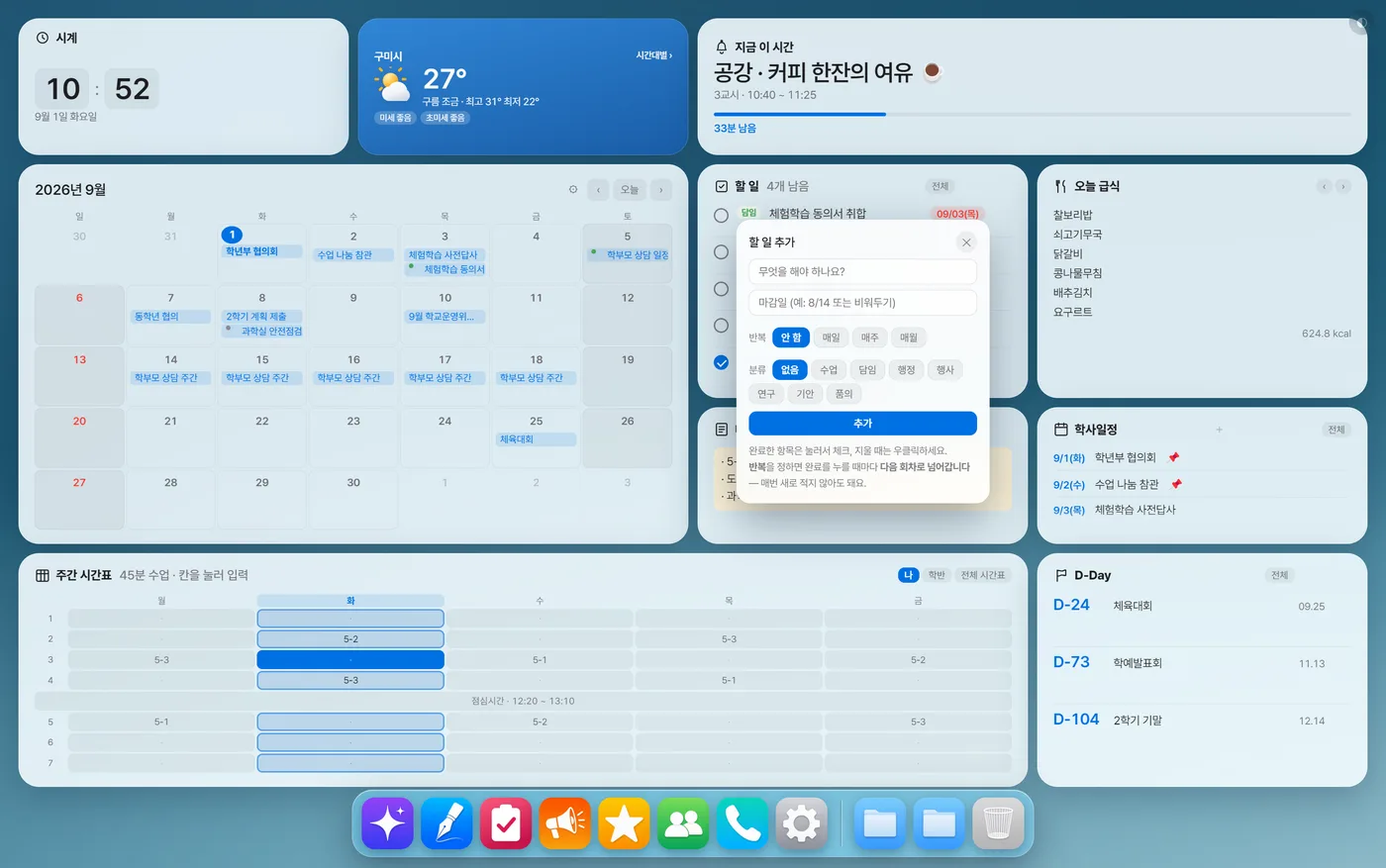
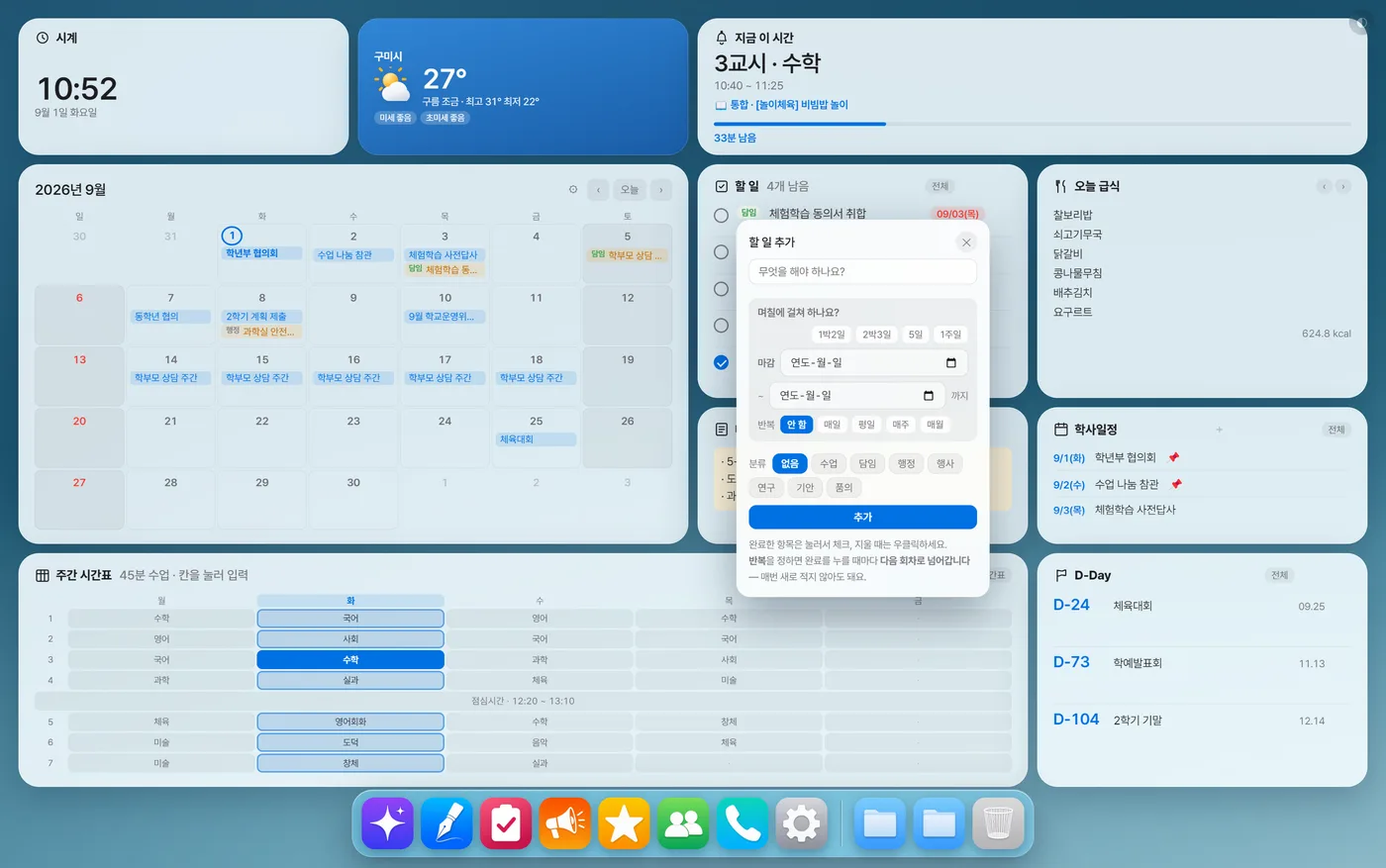
TD2 설명서 3.38 — 기간·반복 한 벌(이 기능 있나요·달력·할 일·[전체]·FAQ) · 동기화 화면비 안내 · 일지 v3.38 · 캡처 날짜 창·할 일 추가 창 (릴리스 때 push)

diff --git a/td2/index.html b/td2/index.html
@@ -576,7 +576,7 @@
               <div class="fx" data-k="색 글자색 크기 굵기 꾸미기 강조 팔레트"><span class="fn">줄마다 색·크기·굵기 🎨 <span class="ftag hid">숨은 자리</span></span><span class="fw">줄 <b>끝에 마우스를 올리면</b> 나오는 🎨 — 급한 일만 빨갛게·크게 할 수 있어요</span></div>
               <div class="fx" data-k="분류 꼬리표 카테고리 업무 수업 담임 행정"><span class="fn">할 일에 분류 붙이기</span><span class="fw">추가 창의 <b>[분류]</b> 줄에서 고릅니다. 이미 적어 둔 것은 <b>[전체] 창 → 줄 끝 ✎</b>. 이름·색은 설정 [위젯]에서 바꿉니다</span></div>
               <div class="fx" data-k="분류별로 보기 거르기 필터"><span class="fn">분류별로 걸러 보기</span><span class="fw">할 일 제목 옆 <b>[전체]</b> → 위에 줄지어 뜨는 분류 칩을 누르면 그것만 보입니다</span></div>
-              <div class="fx" data-k="반복 매일 매주 매월 정기 루틴"><span class="fn">반복되는 할 일</span><span class="fw">추가 창의 <b>[반복]</b> — 매일·매주·매월. 완료를 누르면 지워지지 않고 <b>다음 회차로 넘어갑니다</b></span></div>
+              <div class="fx" data-k="반복 매일 평일 매주 매월 정기 루틴 반복 끝"><span class="fn">반복되는 할 일</span><span class="fw">추가 창의 <b>[반복]</b> — 매일·평일·매주·매월, 끝나는 날(반복 끝)도 정할 수 있어요. 완료를 누르면 지워지지 않고 <b>다음 회차로 넘어갑니다</b>(카드·달력·[전체] 어디서 눌러도)</span></div>
               <div class="fx" data-k="마감 요일 표시 날짜"><span class="fn">마감일에 요일 붙이기</span><span class="fw">「08/11(월)」처럼 보여 줍니다 — 설정 [위젯] → 할 일 마감일에 요일 표시(기본 켜짐)</span></div>
               <div class="fx" data-k="완료 감추기 체크한 것 숨기기"><span class="fn">끝낸 할 일 감추기</span><span class="fw">할 일 <b>[전체]</b> 창 아래 <b>[완료한 것 감추기]</b> — 지우지 않고 시야에서만 치웁니다</span></div>
               <div class="fx" data-k="메모 카드 넷 4개 여러개 포스트잇 쪽지"><span class="fn">메모 카드를 넷까지 <span class="ftag off">기본 꺼짐</span></span><span class="fw">설정 [위젯] → 메모 2·3·4를 켜고, 뜨는 알림의 <b>[직접 배치로 두기]</b>까지 누르세요(배치표에 자리가 없는 카드). 학년용·업무용·개인용으로 갈라 쓰시라고 만든 것입니다</span></div>
@@ -585,7 +585,7 @@
               <div class="fx" data-k="쪽지 잘림 세줄 다 안 보임 접힘 전체보기"><span class="fn">쪽지 글이 잘려 보일 때 <span class="ftag off">기본 꺼짐</span></span><span class="fw">설정 [위젯] → 메모 아래 <b>「쪽지 글 다 보이기」</b>를 켜세요(기본은 여덟 줄쯤에서 접습니다)</span></div>
               <div class="fx" data-k="지운 할 일 되살리기 지난 기록 복구 예전 할 일"><span class="fn">지운 할 일 되살리기 — 지난 기록 <span class="ftag hid">숨은 자리</span></span><span class="fw">할 일 <b>[전체]</b> 창 맨 아래 「지난 기록 N건 펼치기」 → 줄의 <b>↩</b>. 최근 500건까지 남습니다</span></div>
               <div class="fx" data-k="디데이 고치기 수정 날짜 바꾸기"><span class="fn">D-Day 고치기</span><span class="fw">D-Day는 고치기가 없습니다 — 우클릭으로 지우고 다시 넣으세요. 지난 날은 D+로 남으니 다 쓴 것은 지우기</span></div>
-              <div class="fx" data-k="반복 할 일 바꾸기 끄기 멈추기"><span class="fn">반복 할 일 멈추기</span><span class="fw">한 번 정한 반복은 바꿀 수 없어 <b>지우고 다시 적어야</b> 합니다</span></div>
+              <div class="fx" data-k="반복 할 일 바꾸기 끄기 멈추기 기간 고치기"><span class="fn">반복·기간 바꾸기, 반복 멈추기</span><span class="fw">할 일 <b>[전체]</b> 창이나 달력 날짜 창의 줄 끝 <b>✎</b> → 「할 일 고치기」에서 반복 <b>[안 함]</b>, 또는 <b>반복 끝</b> 날짜를 정하세요</span></div>
               <div class="fx" data-k="전체 크게 보기 큰 창 펼치기"><span class="fn">카드를 큰 창에 펼치기</span><span class="fw">카드 제목 옆 <b>[전체]</b> — 할 일·D-Day·메모·학사일정·진도 모두 있습니다. 큰 창에서 고친 것은 바탕화면에도 바로 반영됩니다</span></div>
             </div>
 
@@ -594,7 +594,8 @@
               <div class="fx" data-k="주말 빼기 토일 안 보이게 월금만"><span class="fn">달력에서 토·일 빼기</span><span class="fw">달력 ⚙ → <b>「보여줄 요일」 [월~금]</b></span></div>
               <div class="fx" data-k="달력 글자 크게 작게 크기"><span class="fn">달력 글자 크기</span><span class="fw">달력 ⚙(또는 설정 [디자인]) → 보통·크게·아주 크게</span></div>
               <div class="fx" data-k="칸에 일정 다 보기 점만 나옴 더보기 +N 풍선 넘칠 때 글자 줄여 다 넣기"><span class="fn">달력 칸의 일정 다 보기 <span class="ftag hid">숨은 자리</span></span><span class="fw">「+N」으로 접힌 칸에 마우스를 올리면 그 날 일정이 <b>풍선으로 전부</b> 뜹니다. 접지 않고 글자를 줄여 한 칸에 넣으려면 달력 ⚙ → <b>「일정이 칸에 넘칠 때」 [글자 줄여 다 넣기]</b>. 날짜를 누르면 전부 보이는 창이 열립니다</span></div>
-              <div class="fx" data-k="여러 날 기간 일정 1박2일 이어지는"><span class="fn">여러 날 이어지는 일정 <span class="ftag hid">숨은 자리</span></span><span class="fw">날짜를 눌러 나온 창의 <b>입력칸 아래</b> — [1박2일]·[2박3일]·[5일]·[1주일] 단추 또는 마지막 날 고르기</span></div>
+              <div class="fx" data-k="여러 날 기간 일정 할 일 1박2일 이어지는"><span class="fn">여러 날 이어지는 일정·할 일 <span class="ftag hid">숨은 자리</span></span><span class="fw">날짜를 눌러 나온 창의 <b>입력칸 아래</b>(할 일은 추가 창에도 같은 칸) — [1박2일]·[2박3일]·[5일]·[1주일] 단추 또는 마지막 날 고르기. 기간 할 일은 그 사이 날마다 달력에 뜹니다</span></div>
+              <div class="fx" data-k="반복 일정 매주 회의 정기 일정 매월 이 날만 빼기"><span class="fn">반복 일정 (매주 회의 같은 것)</span><span class="fw">날짜 창 [일정] 탭 아래 칸의 <b>[반복]</b> — 매일·평일·매주·매월. 회차마다 달력에 뜨고, 한 회차를 ✕하면 <b>「이 날만 빼기 / 반복 전부 지우기」</b>를 묻습니다</span></div>
               <div class="fx" data-k="알림 시각 몇 분 전 울림 리마인더 알림이 안 울려요 안 옴 집중 지원 방해 금지"><span class="fn">일정에 알림 걸기 <span class="ftag off">기본 안 함</span></span><span class="fw">날짜 창의 <b>⏰</b> — 시각을 넣고 정각·5·10·30분 전 중에 고르면 윈도우 알림이 옵니다. <b>기본은 「안 함」</b>이라 고른 일정만 울립니다. 안 울리면 — <b>앱이 켜져 있어야</b> 울리고(꺼져 있던 사이의 알림은 버림), 윈도우 「집중 지원」이 켜져 있으면 안 뜹니다. 학사일정·구글 일정·할 일에는 알림이 없습니다</span></div>
               <div class="fx" data-k="중요 강조 빨간 표시"><span class="fn">중요 일정 강조</span><span class="fw">날짜 창의 <b>[중요]</b> 단추 — 달력에 빨갛게 뜹니다</span></div>
               <div class="fx" data-k="초과근무 시간외 근무 합계 4h"><span class="fn">초과근무 쌓기</span><span class="fw">날짜를 눌러 <b>[초과]</b> 탭 — [30분][1h][2h][4h][지움] 단추(누르면 바로 저장)나 시간·분 직접 입력(1분 단위, 사유는 [저장]으로). 그 달 합계가 저절로 쌓입니다</span></div>
@@ -723,7 +724,7 @@
               <div class="fx" data-k="업무포털 로그인 안 됨 안돼요 실패 기록 로그 원인 경남 충북 대구 광주"><span class="fn">업무포털이 안 될 때 기록 보내기 <span class="ftag hid">v3.32~</span></span><span class="fw">설정 [업무포털] → <b>[기록 열기]</b> — 어느 단계에서 멈췄는지가 적혀 있습니다. 그 파일을 [의견]으로 보내 주시면 원인을 짚을 수 있어요(인증서 아이디·비밀번호·학교 이름은 안 적힙니다)</span></div>
               <div class="fx" data-k="메신저 자동 로그인 지비톡 gbee talk 경북 인증서 업무용 메신저"><span class="fn">업무 메신저 자동 로그인 — 경북 GBee TALK 전용 <span class="ftag off">기본 꺼짐</span> <span class="ftag hid">v3.35~</span></span><span class="fw">설정 [업무포털] 맨 아래 — 컴퓨터를 켜면 GBee TALK의 <b>[인증서 로그인] → 인증서 비밀번호 → [확인]</b>까지 대신 누릅니다. <b>경상북도교육청 메신저 전용</b>입니다(다른 교육청 메신저는 메신저 안의 자동 로그인을 쓰세요)</span></div>
               <div class="fx" data-k="업무포털 버튼 바탕화면 누를 때만"><span class="fn">업무포털을 누를 때만 <span class="ftag off">기본 꺼짐</span></span><span class="fw">설정 [위젯] → <b>업무포털 로그인</b>을 켜면 바탕화면에 단추 카드가 붙습니다. 자동 실행을 꺼 두어도 이 단추는 됩니다</span></div>
-              <div class="fx" data-k="동기화 PC 간 동기화 학교 집 노트북 두 대 같이 쓰기 구글 로그인 드라이브 맞추기 연동"><span class="fn">학교 PC·집 PC 같이 쓰기(PC 간 동기화) <span class="ftag off">기본 꺼짐</span></span><span class="fw">설정 [데이터] 맨 위 <b>[구글로 로그인]</b> — 같은 구글 계정으로 로그인한 PC끼리 할 일·일정·명렬·설정·위젯 배치가 저절로 동기화됩니다(고치고 2초쯤 뒤 올리고, 다른 PC는 켤 때·5분마다·창을 누를 때 받음). 급하면 <b>[지금 동기화]</b>. 업무포털·메신저 비밀번호·독 바로가기·서랍은 PC마다 따로</span></div>
+              <div class="fx" data-k="동기화 PC 간 동기화 학교 집 노트북 두 대 같이 쓰기 구글 로그인 드라이브 맞추기 연동"><span class="fn">학교 PC·집 PC 같이 쓰기(PC 간 동기화) <span class="ftag off">기본 꺼짐</span></span><span class="fw">설정 [데이터] 맨 위 <b>[구글로 로그인]</b> — 같은 구글 계정으로 로그인한 PC끼리 할 일·일정·명렬·설정·위젯 배치가 저절로 동기화됩니다(고치고 2초쯤 뒤 올리고, 다른 PC는 켤 때·5분마다·창을 누를 때 받음). 급하면 <b>[지금 동기화]</b>. 업무포털·메신저 비밀번호·독 바로가기·서랍은 PC마다 따로. <b>PC마다 화면 크기·비율이 다르면 위젯 배치가 조금 달라질 수 있어요</b></span></div>
               <div class="fx" data-k="백업 내보내기 다른 컴퓨터 옮기기 이사"><span class="fn">다른 컴퓨터로 옮기기</span><span class="fw">설정 [데이터] → <b>[설정 내보내기] / [설정 불러오기]</b>. 다만 <b>Gemini 키·NEIS 키·캘린더 주소·인증서 비밀번호는 빠집니다</b>(백업은 열면 그대로 보이는 글자 파일이라서요) — 새 컴퓨터에서 그것만 다시 넣으세요</span></div>
               <div class="fx" data-k="지난 일정 지우기 완료 정리 청소"><span class="fn">묵은 것 정리하기</span><span class="fw">설정 [데이터] → [지난 일정 지우기] · [완료한 할 일 지우기]</span></div>
               <div class="fx" data-k="초기화 처음 상태 반납 인계 삭제"><span class="fn">처음 상태로 되돌리기</span><span class="fw">설정 [데이터] 맨 아래 [처음 상태로 되돌리기] — 반납·인계 때는 그 뒤 앱을 지우고 <b>%APPDATA%\TeacherDesk2 폴더도 통째로</b> 지우세요(안전용 사본이 남습니다). 자세한 것은 12번</span></div>
@@ -767,7 +768,15 @@
           <div class="log-h"><h3>업데이트 일지</h3><span>새 판에서 달라진 것만 적어 둡니다.</span></div>
 
           <div class="log-item">
-            <div class="log-top"><span class="log-ver">v3.37.1</span><span class="log-date">2026. 9. 13.</span><span class="log-new">최신</span></div>
+            <div class="log-top"><span class="log-ver">v3.38</span><span class="log-date">2026. 9. 13.</span><span class="log-new">최신</span></div>
+            <ul>
+              <li><b>할 일·달력 일정 모두 기간과 반복</b>(매일·평일·매주·매월·반복 끝)을 같은 칸에서 정합니다 · 달력·[전체]에서 반복 할 일을 눌러도 다음 회차로 넘어가게 고침</li>
+              <li>분류가 좁은 카드·좁은 달력 칸에서도 작은 글자로 보이고, 오늘 날짜는 숫자가 가려지지 않게 <b>테두리 원</b>으로 바꿨습니다</li>
+            </ul>
+          </div>
+
+          <div class="log-item">
+            <div class="log-top"><span class="log-ver">v3.37.1</span><span class="log-date">2026. 9. 13.</span></div>
             <ul>
               <li><b>PC 간 동기화</b> — 고친 뒤 [지금 동기화]를 안 눌러도 2초쯤 뒤 저절로 올라가게 · 한 PC에서 로그아웃하면 다른 PC 로그인까지 풀리던 것 고침</li>
             </ul>
@@ -1906,15 +1915,16 @@
               <li>(필요하면) <strong>⏰ 시각</strong> 칸에 시각을 넣고 <strong>알림</strong> [안 함][정각][5분 전][10분 전][30분 전] 중 고르기</li>
               <li>(필요하면) <strong>[중요]</strong> — 달력에 빨갛게</li>
               <li>「일정 입력 후 Enter」 칸에 이름을 적고</li>
-              <li>(여러 날이면) 입력칸 <u>아래</u> 「여러 날 이어지는 일정인가요?」 — <strong>[1박2일] [2박3일] [5일] [1주일]</strong> 또는 「09/12부터 [날짜] 까지」에서 끝날 고르기</li>
+              <li>(여러 날·반복이면) 입력칸 <u>아래</u> 칸 — 기간 <strong>[1박2일] [2박3일] [5일] [1주일]</strong> 또는 「09/12부터 [날짜] 까지」 · 반복 <strong>[안 함] [매일] [평일] [매주 토] [매월 12일]</strong> · 반복을 고르면 「반복 끝」(비우면 계속)</li>
               <li><kbd>Enter</kbd> 또는 <strong>[추가]</strong></li>
             </ol>
             <ul>
-              <li>🔴 넣고 나면 <strong>시각·알림은 비워지지만 [중요]와 기간 날짜는 그대로 남습니다</strong> — 다음 일정을 적기 전에 풀어 주세요(기간은 날짜 옆 ✕ 「하루짜리로 되돌리기」)</li>
+              <li>넣고 나면 <strong>시각·알림·기간·반복은 비워지고 [중요]만 남습니다</strong> — 다음 일정은 하루짜리부터 적습니다</li>
               <li>여러 날 일정은 이어지는 날에 「09/12부터」로 보이고, <strong>고치기·지우기는 시작한 날에서만</strong> 됩니다</li>
+              <li><strong>반복 일정</strong>은 회차마다 칸에 뜨고 날짜 창에 「↻ 매주 토」로 보입니다 — 회차 글자를 누르면 <u>그 회차만</u> 끝낸 표시, ✎는 반복 전체를 고치고, ✕는 「이 날만 빼기 / 반복 전부 지우기」를 묻습니다</li>
             </ul>
             <h5>[할 일] 탭</h5>
-            <p>「이 날짜가 마감인 할 일」을 적고 (분류가 있으면) 분류를 고른 뒤 [추가]. 이 창에서는 <strong>고른 분류가 이어 적을 때도 남습니다</strong>. 반복은 여기서 못 정합니다(할 일 카드의 추가 창에서).</p>
+            <p>할 일을 적고 (분류가 있으면) 분류를 고른 뒤 [추가]. 아래 <strong>같은 칸에서 기간(이 날부터 끝 날까지)과 반복</strong>도 정합니다 — 할 일 카드의 추가 창과 똑같은 칸입니다. 이 창에서는 <strong>고른 분류가 이어 적을 때도 남습니다</strong>.</p>
             <h5>[초과] 탭 — 초과근무</h5>
             <ul>
               <li>빠른 단추 <strong>[30분] [1h] [2h] [4h] [지움]</strong> — 누르는 즉시 그 날 값으로 <u>덮어써</u> 저장됩니다</li>
@@ -1931,27 +1941,27 @@
             <span class="where">날짜 창 위쪽 목록의 줄 끝 단추 (줄에 마우스를 올리면 또렷해짐)</span>
             <ul>
               <li><strong>내 일정</strong> — ▲▼(그 날 안에서 순서) · <strong>⏰</strong>(알림) · 🎨(색·크기·굵기) · <strong>✎</strong>(고치기) · ✕</li>
-              <li><strong>할 일</strong>(그 날 마감) — ▲▼ · <strong>+분류</strong> · 🎨 · ✎ · ✕</li>
+              <li><strong>할 일</strong>(그 날 마감이거나 기간 중) — ▲▼ · <strong>+분류</strong> · 🎨 · ✎ · ✕ · 반복이면 「↻ 할 일」</li>
               <li><strong>학사일정</strong> — 🎨 · ✎ · ✕ &nbsp;/&nbsp; <strong>구글 캘린더</strong> — 단추 없음(읽기만) &nbsp;/&nbsp; <strong>초과근무</strong> — ✕</li>
               <li>달력 ⚙에서 꺼 둔 갈래도 <strong>이 창에는 다 보입니다</strong></li>
               <li>창은 화면 크기에 맞춰 넓어지고, 긴 일정도 «…» 없이 <strong>줄을 바꿔 다</strong> 보입니다</li>
               <li><strong>할 일·내 일정 글자를 누르면</strong> 줄이 그어지고(끝낸 표시) 잠깐 뒤 <strong>목록 맨 아래</strong>로 내려갑니다 — 다시 누르면 되돌리기. 적던 글자·고른 기간은 그대로 남습니다</li>
             </ul>
             <ol class="how">
-              <li><strong>일정 고치기</strong> — 줄 끝 ✎ → 「일정 고치기」에서 날짜·이름(80자) → [저장]. 날짜를 바꾸면 그 날로 옮겨 갑니다. ⚠ 기간의 끝날과 [중요]는 여기서 못 고칩니다(지우고 다시 적기)</li>
-              <li><strong>할 일 고치기</strong> — ✎ → 내용(200자)·마감일(비우면 마감 없음) → [저장]</li>
+              <li><strong>일정 고치기</strong> — 줄 끝 ✎ → 「일정 고치기」에서 이름(80자)·날짜·기간 끝날·반복 → [저장]. 날짜를 바꾸면 그 날로 옮겨 갑니다. 뺀 회차가 있으면 [모두 되살리기]. ⚠ [중요]는 여기서 못 고칩니다</li>
+              <li><strong>할 일 고치기</strong> — ✎ → 내용(200자)·마감(기간)·반복·분류 → [저장]. 날짜를 비우면 마감 없는 할 일. [전체] 창의 ✎도 같은 창입니다</li>
               <li><strong>이미 적은 일정에 알림 붙이기</strong> — 그 줄의 ⏰(흐리면 알림 없음) → 작은 창에서 시각·알림 고르기 → 누르는 즉시 저장</li>
             </ol>
             <div class="stuck"><b>지울 때 조심 — 묻는 곳과 안 묻는 곳이 다릅니다</b><ul>
               <li>카드에서 <strong>우클릭</strong>으로 지우면 「지울까요?」를 묻습니다</li>
-              <li>날짜 창의 <strong>✕</strong>와 고치기 창의 <strong>[삭제]</strong>는 <u>묻지 않고 바로</u> 지웁니다 — 대신 4초 동안 [되돌리기]가 뜹니다</li>
+              <li>날짜 창의 <strong>✕</strong>와 고치기 창의 <strong>[삭제]</strong>는 <u>묻지 않고 바로</u> 지웁니다 — 대신 4초 동안 [되돌리기]가 뜹니다. <strong>반복 일정의 ✕</strong>만은 「이 날만 빼기 / 반복 전부 지우기」를 먼저 묻습니다</li>
             </ul></div>
             <h5>알림이 울리는 규칙</h5>
             <ul>
               <li>기본은 「안 함」 — 고른 일정만 울립니다. 시각을 지우면 알림도 꺼집니다</li>
               <li>🔴 <strong>앱이 켜져 있어야</strong> 울립니다. 오래 꺼져 있던 사이의 알림은 버립니다(3분 안쪽만 따라잡음)</li>
               <li>윈도우 알림으로 뜨고 <strong>누를 때까지 남습니다</strong> — [열기](앱을 앞으로) / [닫기]. 윈도우 「집중 지원」이 켜져 있으면 안 뜰 수 있어요</li>
-              <li>여러 날 일정은 <strong>시작한 날에만</strong>, 이미 지난 시각은 「이 시각은 이미 지났습니다」라고 알려 드립니다</li>
+              <li>여러 날 일정은 <strong>시작한 날에만</strong>, 반복 일정은 <strong>회차마다</strong>(뺀 날은 빼고) 울립니다. 이미 지난 시각은 「이 시각은 이미 지났습니다」라고 알려 드립니다</li>
               <li>알림은 <strong>내 일정에만</strong> — 학사일정·구글 일정·할 일 마감에는 알림이 없습니다</li>
             </ul>
           </div>
@@ -1987,13 +1997,13 @@
             <ol class="how">
               <li>카드 빈 곳을 누르면 「할 일 추가」 창이 뜹니다</li>
               <li>「무엇을 해야 하나요?」에 내용</li>
-              <li>(선택) 마감일 — <strong>8/14</strong> · 8.14 · 8-14 · 2026-08-14 모두 됩니다(월/일만 적으면 올해). 비워도 됩니다</li>
-              <li>(선택) <strong>반복</strong> [안 함][매일][매주][매월] · <strong>분류</strong> [없음][수업][담임]…</li>
+              <li>(선택) 「며칠에 걸쳐 하나요?」 칸 — <strong>마감</strong> 날짜(비워도 됩니다). 여러 날이면 <strong>[1박2일] [2박3일] [5일] [1주일]</strong> 또는 「~ [끝 날] 까지」 — 그러면 「마감」이 「기간」으로 바뀝니다</li>
+              <li>(선택) <strong>반복</strong> [안 함][매일][평일][매주][매월] · 고르면 「반복 끝」(비우면 계속) · <strong>분류</strong> [없음][수업][담임]…</li>
               <li><strong>[추가]</strong> 또는 아무 칸에서 <kbd>Enter</kbd> → 창이 닫힙니다</li>
             </ol>
             <ul>
+              <li>기간·반복 칸은 <strong>달력 날짜 창과 똑같습니다</strong> — 어디서 적든 적는 방법이 같습니다</li>
               <li>창을 다시 열면 분류·반복은 [없음]/[안 함]으로 돌아갑니다. 같은 분류로 여러 개를 이어 적으려면 <strong>[전체] 창 아래 입력칸</strong>(여러 줄 한꺼번에)이나 <strong>달력 날짜 창 [할 일] 탭</strong>이 편합니다</li>
-              <li>마감일 형식이 틀리면 「마감일은 8/14 또는 2026-08-14 형식으로 적어주세요」</li>
             </ul>
           </div>
         </div>
@@ -2006,20 +2016,21 @@
             <ul>
               <li><strong>완료</strong> — 줄을 한 번 누르면 체크·줄 긋기, 곧 아래로 내려갑니다. 다시 누르면 해제</li>
               <li>순서 — 안 끝낸 것 위 → 마감 가까운 순 → 마감 없는 것 뒤. 제목 옆 「N개 남음」</li>
-              <li>마감 배지 「오늘」 / 「08/14(목)」 — 요일은 설정 [위젯]에서 끌 수 있어요. 좁은 카드에서는 분류가 <strong>색 점</strong>으로, 마감이 풍선말로 접힙니다</li>
+              <li>마감 배지 「오늘」 / 「08/14(목)」, 기간이면 「09/15~09/19(금)」 — 요일은 설정 [위젯]에서 끌 수 있어요. 좁은 카드에서는 분류가 <strong>작은 글자</strong>로 줄고, 마감이 풍선말로 접힙니다</li>
               <li><strong>▲▼로 손수 순서</strong> — 처음 누르면 제목 옆이 「✋ 내 순서」로 바뀌고 알림에 [마감순으로 되돌리기]. 나중에 그 배지를 누르면 마감순으로 돌아갑니다(끝낸 것은 늘 아래)</li>
               <li><strong>지우기</strong> — 우클릭 → 「지울까요?」 → [지우기] + [되돌리기] 4초. 지운 것은 [전체] 창 「지난 기록」에 남습니다</li>
-              <li>마감일이 있으면 <strong>달력에도 주황 칩</strong>으로 뜹니다(달력 ⚙ 「할 일 마감」) — 같은 자료라 어느 쪽에서 고쳐도 같이 바뀝니다</li>
+              <li>마감일이 있으면 <strong>달력에도 주황 칩</strong>으로 뜹니다(기간이면 그 사이 날마다 · 달력 ⚙ 「할 일 마감」) — 같은 자료라 어느 쪽에서 고쳐도 같이 바뀝니다</li>
             </ul>
             <h5>반복 할 일</h5>
             <ul>
-              <li>반복 줄을 누르면 끝나지 않고 <strong>마감일이 다음 회차로</strong> 넘어갑니다 — 「다음 날로 넘겼습니다 — 09/13」. 줄에 ↻ 표시</li>
-              <li>마감을 비우고 반복을 정하면 <strong>오늘</strong>이 첫 마감. 매월 31일은 그 달 말일로 맞춥니다. 지난 마감이면 오늘 뒤 첫 회차로 건너뜁니다</li>
-              <li>🔴 <strong>한 번 정한 반복은 나중에 바꾸거나 끌 수 없습니다</strong> — 바꾸려면 지우고 다시 적어 주세요</li>
+              <li>반복 줄을 누르면 끝나지 않고 <strong>마감일이 다음 회차로</strong> 넘어갑니다 — 카드·달력 칸·날짜 창·[전체] 어디서 눌러도 같습니다. 「다음 주로 넘겼습니다 — 09/20」. 줄에 ↻ 표시</li>
+              <li>마감을 비우고 반복을 정하면 <strong>오늘</strong>이 첫 마감. <strong>평일</strong>은 금요일 다음이 월요일, 매월 31일은 그 달 말일로 맞춥니다. 기간이 있으면 기간째 옮기고, 지난 마감이면 오늘 뒤 첫 회차로 건너뜁니다</li>
+              <li><strong>반복 끝</strong>을 정해 두면 그 날을 넘는 회차에서 넘어가지 않고 끝난 것으로 표시됩니다</li>
+              <li>반복을 바꾸거나 끄려면 <strong>✎(할 일 고치기)</strong> — [전체] 창이나 달력 날짜 창의 줄 끝에 있습니다</li>
             </ul>
             <h5>분류 붙이기</h5>
             <ul>
-              <li>붙이는 곳 셋 — 추가 창 [분류] 줄 · <strong>[전체] 창 줄 끝 ✎</strong> · 달력 날짜 창 할 일 줄의 <strong>+분류</strong></li>
+              <li>붙이는 곳 셋 — 추가 창 [분류] 줄 · <strong>✎(할 일 고치기)</strong> · 달력 날짜 창 할 일 줄의 <strong>+분류</strong></li>
               <li>이름·색 바꾸기·추가(12개까지)는 설정 <strong>[위젯]</strong> 탭 → 할 일 분류</li>
             </ul>
           </div>
@@ -2324,7 +2335,7 @@
               <li>머리 「모두 N개 · 남은 것 N개」와 <strong>「내용으로 찾기」</strong> 칸</li>
               <li><strong>분류 칩</strong> [전체 N] [수업 N] … [분류 없음 N] — 누르면 그것만, 같은 칩을 다시 누르면 전체(거르는 동안 ▲▼는 숨습니다)</li>
               <li>줄 클릭 = 완료 · 우클릭 = 지우기 · 마감 지난 것은 「08/14(목) 지남」</li>
-              <li>줄 끝 <strong>✎</strong> → 내용 · <strong>분류</strong> · 마감일을 한꺼번에 고치고 [저장](<kbd>Enter</kbd>/<kbd>Esc</kbd>)</li>
+              <li>줄 끝 <strong>✎</strong> → 「할 일 고치기」 창(달력과 같은 창)에서 내용 · 기간 · 반복 · <strong>분류</strong>를 한꺼번에 고치고 [저장](<kbd>Enter</kbd>/<kbd>Esc</kbd>)</li>
               <li>아래 입력칸 「할 일 — 여러 개는 <strong>줄바꿈으로 한꺼번에</strong>」 + 마감일 고르개 + [추가] — 여러 줄을 붙여넣으면 여러 개가 됩니다</li>
               <li><strong>[완료한 것 감추기]</strong> — 지우지 않고 치웁니다(창을 닫으면 풀림) · 내 순서일 때 [✋ 내 순서 해제 (마감순으로)]</li>
             </ul>
@@ -3184,13 +3195,13 @@
           <div class="tabmap-b">
             <h4>데이터 — PC 간 동기화 · 내보내기 · 백업 · 초기화</h4>
             <dl>
-              <dt>PC 간 동기화 (구글 드라이브)</dt><dd>맨 위 칸 <span class="val">(기본 꺼짐)</span>. <b>[구글로 로그인]</b> → 브라우저에서 계정을 고르고 [허용]. 로그인하면 계정·마지막 동기화 시각과 <b>[지금 동기화] · [로그아웃] · [드라이브에 올린 자료 지우기]</b>가 보입니다. 처음 잇는 PC에 자료가 있으면 [합치기 / 드라이브 자료로 바꾸기 / 이 PC 자료로 덮기]를 묻고, 다른 PC의 위젯 배치를 따라오면 알림에 [되돌리기]가 뜹니다. 로그아웃해도 이 PC 자료는 그대로입니다. 저장 방식은 <a href="privacy/#sync">개인정보 처리방침 3번</a>.</dd>
+              <dt>PC 간 동기화 (구글 드라이브)</dt><dd>맨 위 칸 <span class="val">(기본 꺼짐)</span>. <b>[구글로 로그인]</b> → 브라우저에서 계정을 고르고 [허용]. 로그인하면 계정·마지막 동기화 시각과 <b>[지금 동기화] · [로그아웃] · [드라이브에 올린 자료 지우기]</b>가 보입니다. 처음 잇는 PC에 자료가 있으면 [합치기 / 드라이브 자료로 바꾸기 / 이 PC 자료로 덮기]를 묻고, 다른 PC의 위젯 배치를 따라오면 알림에 [되돌리기]가 뜹니다. 로그아웃해도 이 PC 자료는 그대로입니다. <b>PC마다 화면 크기·비율이 다르면 위젯 배치가 조금 달라질 수 있습니다.</b> 저장 방식은 <a href="privacy/#sync">개인정보 처리방침 3번</a>.</dd>
               <dt>저장 위치</dt><dd><code>%APPDATA%\TeacherDesk2\store.json</code> — 모든 자료가 이 파일 하나에 들어 있다는 안내입니다.</dd>
               <dt>생기부 저장한 글</dt><dd><b>[저장한 글 보기 (N개)]</b> · 한 개 이상이면 <b>[엑셀(.xlsx)로 내보내기] · [한글(.hwpx)로 내보내기] · [CSV로 내보내기]</b>(hwpx는 한글 2014 이상).</dd>
               <dt>학생 누가기록</dt><dd>기록이 있으면 <b>[엑셀(.xlsx)로 내보내기] · [CSV로 내보내기]</b> — 반마다 시트가 나옵니다. ⚠ <b>상담기록도 함께</b> 들어갑니다(구분 열로 갈라 옅은 보라로 칠해 두니, 넘길 파일이면 그 줄을 지우세요). 없으면 「아직 적어 둔 기록이 없습니다」.</dd>
               <dt>백업</dt><dd><b>[설정 내보내기] / [설정 불러오기]</b> — 다른 컴퓨터로 그대로 옮깁니다. 🔴 <b>API 키와 캘린더 주소는 안 들어갑니다</b>(백업은 열면 그대로 보이는 글자 파일이라서요 — 내보낼 때 「새 컴퓨터에서 다시 넣어 주세요」가 뜹니다). ⚠ 대신 <b>명렬과 생기부 저장글은 들어가니</b> 개인정보 파일로 다뤄 주세요.</dd>
               <dt>개인정보</dt><dd>무엇을 저장하고 무엇이 나가는지 적어 둔 안내 칸입니다(12번과 같은 내용).</dd>
-              <dt>정리</dt><dd><b>[지난 일정 지우기]</b> — 한 번 묻고 지우며 5초 동안 [되돌리기]. <b>오늘까지 이어지는 기간 일정은 남깁니다.</b> · <b>[완료한 할 일 지우기]</b> — 묻지 않고 바로 지우고 4초 [되돌리기], 「지난 기록」에는 남습니다.</dd>
+              <dt>정리</dt><dd><b>[지난 일정 지우기]</b> — 한 번 묻고 지우며 5초 동안 [되돌리기]. <b>오늘까지 이어지는 기간 일정과 아직 반복 중인 일정은 남깁니다.</b> · <b>[완료한 할 일 지우기]</b> — 묻지 않고 바로 지우고 4초 [되돌리기], 「지난 기록」에는 남습니다.</dd>
               <dt>처음 상태로 되돌리기 (빨간 칸)</dt><dd>「모두 지우기」를 확인하면 모든 설정과 자료가 지워지고 앱이 새로 열립니다 — 컴퓨터를 반납하거나 업무를 인계할 때. <b>서랍 폴더의 실제 파일은 지우지 않습니다.</b></dd>
             </dl>
           </div>
@@ -3491,7 +3502,7 @@
           <li><strong>[📖 안내문에서 채우기] 단추가 없어요</strong> — 이번 주 안내문을 AI로 읽어 두었고, 설정 [시간표] 「주간학습안내 내용 함께 보기」가 켜져 있고, 이번 주 오늘까지 과목이 같은 빈 칸이 있을 때만 보입니다.</li>
           <li><strong>일정 알림이 안 울려요</strong> — 날짜 창에서 시각과 함께 [정각]·[5분 전] 등을 골라야 울리고(기본 「안 함」), <strong>앱이 켜져 있어야</strong> 합니다. 윈도우 「집중 지원」도 꺼 주세요. 학사일정·구글 일정·할 일에는 알림이 없습니다.</li>
           <li><strong>D-Day 날짜를 잘못 넣었어요</strong> — D-Day는 고치기가 없습니다. 우클릭으로 지우고 다시 넣으세요.</li>
-          <li><strong>반복 할 일을 멈추고 싶어요</strong> — 반복은 나중에 바꿀 수 없어 지우고 다시 적어야 합니다.</li>
+          <li><strong>반복 할 일을 멈추고 싶어요</strong> — 할 일 [전체] 창이나 달력 날짜 창의 줄 끝 <strong>✎</strong> → 반복 <strong>[안 함]</strong>. 끝나는 날을 알면 「반복 끝」을 정해 두세요.</li>
           <li><strong>출결에 학생이 안 나와요 · 0명이에요</strong> — 명렬 학반을 <strong>「3-2」 꼴</strong>로 적었는지 보세요(「3학년 2반」이면 못 찾습니다).</li>
           <li><strong>명렬에 엑셀 이름을 붙여넣었더니 한 명이 됐어요</strong> — 이름 칸은 쉼표로 적는 칸입니다. 여러 줄 명단은 [📥 파일에서 불러오기]로(AI 키 필요).</li>
           <li><strong>품의 [읽기]가 「품목을 찾지 못했습니다」</strong> — 화면 전체가 아니라 <strong>품목 표 부분만</strong> 또렷하게 오려 다시 찍으세요. 한 번에 8장까지 읽습니다. 표는 앱을 끄면 사라지니 엑셀로 저장한 뒤 끄세요(7-2).</li>
